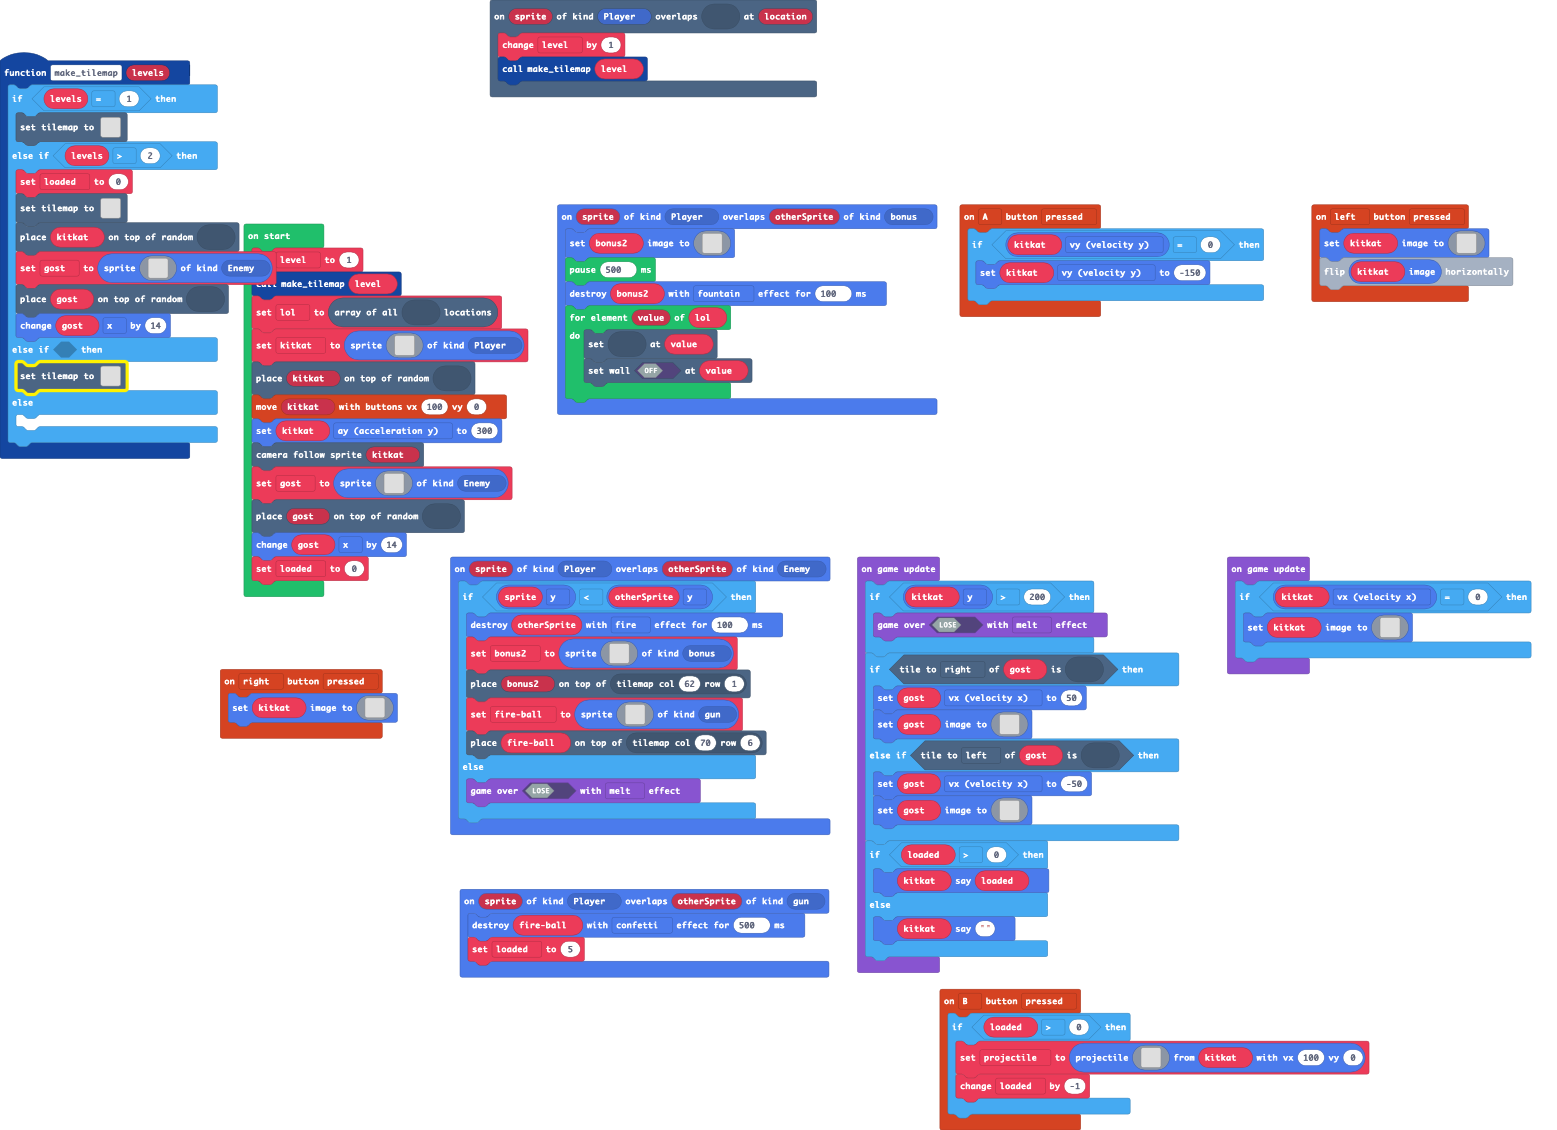
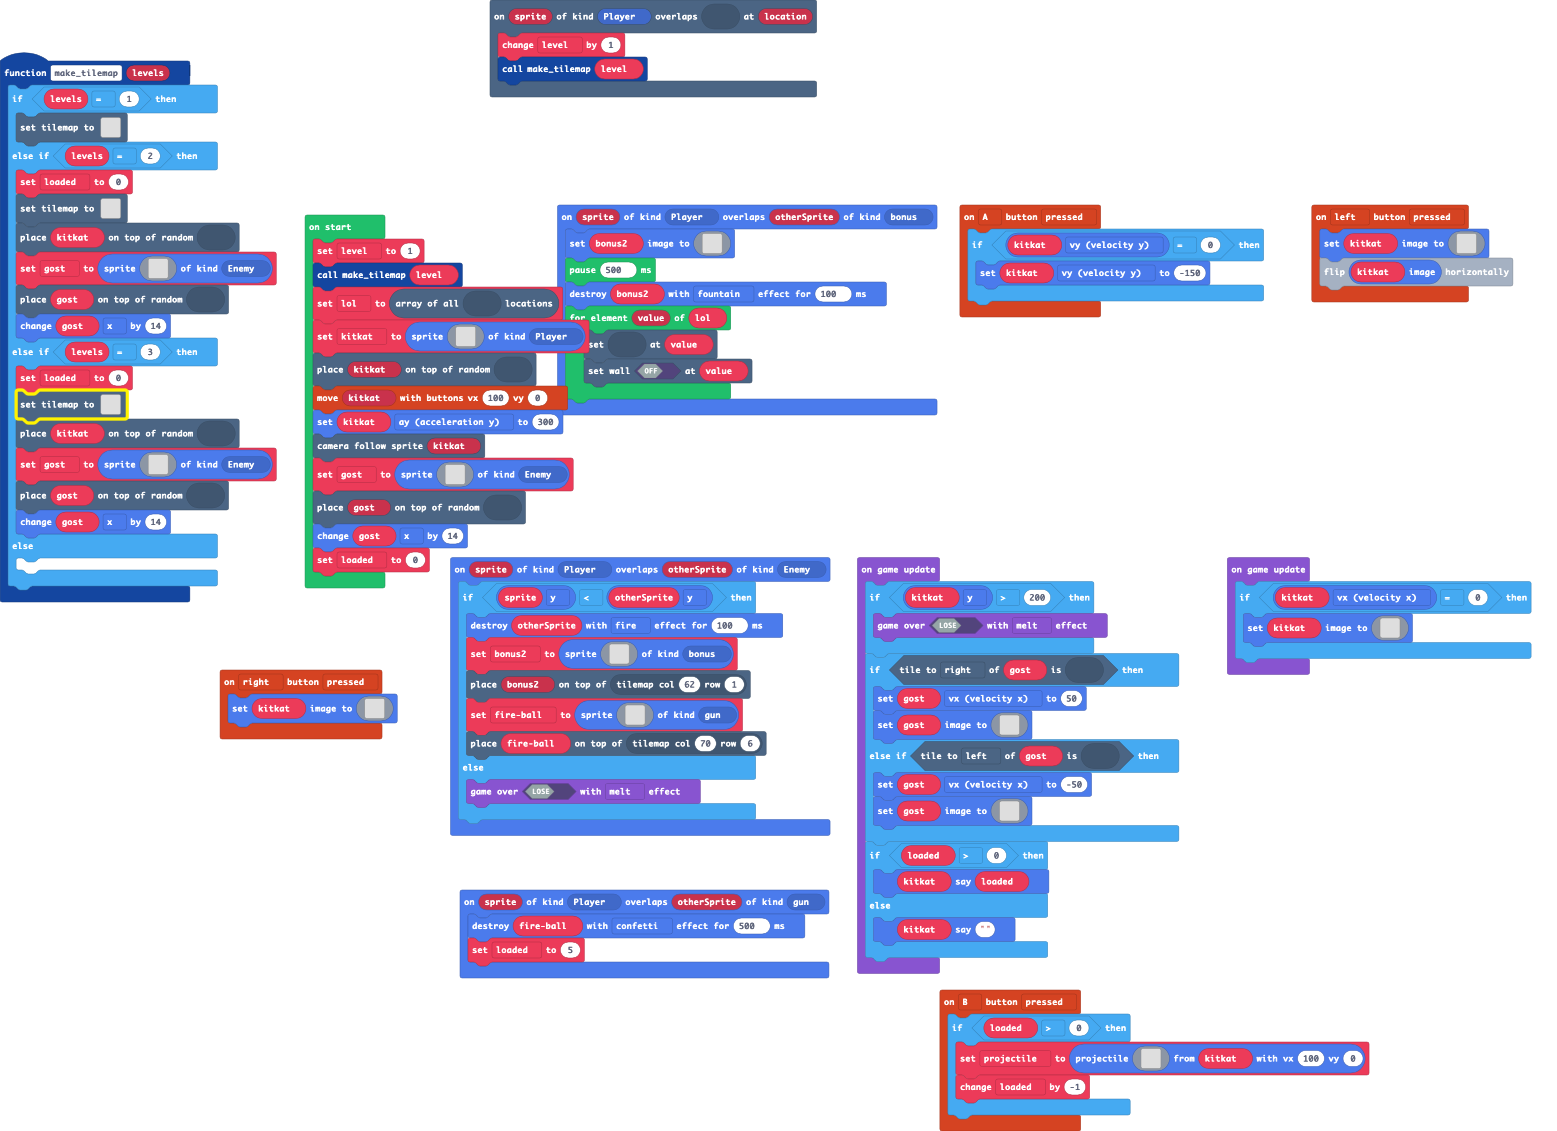
Update main.blocks, main.ts

diff --git a/main.ts b/main.ts
@@ -125,10 +125,10 @@ function make_tilemap (levels: number) {
             222222222222222..22..22..2222..22.2..2..222..2.2.2.2.2222..222...22222.................22...22...2........2....2........
             222222222222222..22..22..2222..22.2..2..222..2.2.2.2.2222..222...22222.................22...22...2.......22....2........
             `, [myTiles.transparency16,sprites.castle.tilePath2,sprites.castle.tilePath5,sprites.dungeon.hazardLava0,myTiles.tile3,sprites.dungeon.hazardWater,myTiles.tile4,myTiles.tile6,myTiles.tile7,myTiles.tile10,myTiles.tile11,myTiles.tile1,myTiles.tile5,sprites.builtin.forestTiles29,sprites.builtin.forestTiles9,sprites.castle.rock1], TileScale.Sixteen))
-    } else if (levels > 2) {
+    } else if (levels == 2) {
         loaded = 0
[1 lines of base64/hex data omitted]
-            .............................................................2.......2..................................................
[1 lines of base64/hex data omitted]
+            ...2.2.......................................................2.......2..................................................
             .............................................................2.......2..................................................
             ...............................22.2..2..2..............22....2222....2..................................................
             ............................2.........................222........2...2..................................................
@@ -174,8 +174,9 @@ function make_tilemap (levels: number) {
             `, SpriteKind.Enemy)
         tiles.placeOnRandomTile(gost, myTiles.tile5)
         gost.x += 14
-    } else if (false) {
[1 lines of base64/hex data omitted]
+    } else if (levels == 3) {
+        loaded = 0
[1 lines of base64/hex data omitted]
             .............................................................2.......2..................................................
             .............................................................2.......2..................................................
             ...............................22.2..2..2..............22....2222....2..................................................
@@ -183,16 +184,45 @@ function make_tilemap (levels: number) {
             2..2222222..222...2........22.............2..2...2...2.22.........2..2..................................................
             2..2222222..222...2.......22.............22..2...2...2.22..........2.2..................................................
             2..2222222..222...2..2...22.......2..2..222..2...2...2.22............2..................................................
-            2..2222222..222.................2.2..2..222..2...2...2.22..222...2222222...22..........22...22...22...2.................
-            2..2222222..................2..22.2..2..222..2...2...2.22..222...22222.2...2.2........2.2...22...22...22.........2222222
-            2..2222222.................22..22.2..2..222..2...2...2.22..222...22222.2...2..22222222..2...22...22...2.2.......22......
-            2..222222222222...2..2...2222..22.2..2..222..2...2...2.22..222...22222.2...2............2...22...22...2..22....22.......
-            2..222222222222...2..2...2222..22.2..2..222..2...2...2.22..222...22222.2...2............2...22...22...2...2....2........
-            2..222222222222...2..2...2222..22.2..2..222..2...2...2.22..222...22222.2...2............2...22...22...2...2....2........
-            2..222222222222...2..2...2222..22.2..2..222..2...2...2.22..222...22222.2...2...........22...22...22...2...2....2........
-            2..222222222222...2..2...2222..22.2..2..222..2...2...2.22..222...22222.2...2...........22...22...22...2...2....2........
-            2..222222222222...2..2...2222..22.2..2..222..2...2...2.22..222...22222.2...2...........22...22...22...2..22....2........
-            `, [myTiles.transparency16,sprites.castle.tilePath2,sprites.castle.tilePath5,sprites.dungeon.hazardLava0,myTiles.tile3,sprites.dungeon.hazardWater,myTiles.tile4,myTiles.tile6,myTiles.tile7,myTiles.tile10,myTiles.tile11,myTiles.tile1,myTiles.tile5,sprites.builtin.forestTiles29,sprites.builtin.forestTiles9,sprites.castle.rock1], TileScale.Sixteen))
+            2..2222222..222.................2.2..2..222..2...2...2.22..2.2...2222222...22..........22....2...2....2.................
+            2..2222222..................2..22.2..2..222..2...2...2.22..2.2...22222.2...2.2........2.2....2...2....22.........2....22
+            2..2222222.................22..22.2..2..222..2...2...2.22..2.2...22222.2...2..22222222..2....2...2....2.2.......22....2.
+            2..222222222222...2..2...2222..22.2..2..222..2...2...2.22..2.2...22222.2...2............2....2...2....2..22....222....2.
+            2..222222222222...2..2...2222..22.2..2..222..2...2...2.22..2.2...22222.2...2............2....2...2....2...2....2.2....2.
+            2..222222222222...2..2...2222..22.2..2..222..2...2...2.22..2.2...22222.2...2............2....2...2....2...2....2.2....2.
+            2..222222222222...2..2...2222..22.2..2..222..2...2...2.22..2.2...22222.2...2...........22....2...2....2...2....2.2....2.
+            2..222222222222...2..2...2222..22.2..2..222..2...2...2.22..2.2...22222.2...2...........22....2...2....2...2....2.2....2.
+            2..222222222222...2..2...2222..22.2..2..222..2...2...2.22..2.2...22222.2...2...........22....2...2....2..22....2.2....2.
+            `, [myTiles.transparency16,sprites.castle.tilePath2,sprites.castle.tilePath5,sprites.dungeon.hazardLava0,sprites.dungeon.hazardWater,myTiles.tile4,myTiles.tile6,myTiles.tile7,myTiles.tile10,myTiles.tile11,myTiles.tile1,myTiles.tile5,sprites.builtin.forestTiles29,sprites.builtin.forestTiles9,sprites.castle.rock1,myTiles.tile2], TileScale.Sixteen))
+        tiles.placeOnRandomTile(kitkat, myTiles.tile2)
+        gost = sprites.create(img`
+            ........................
+            ........................
+            ........................
+            ........................
+            ..........ffff..........
+            ........ff1111ff........
+            .......fb111111bf.......
+            .......fd1111111f.......
+            ......fdd1111111df......
+            ......fddd111111df......
+            ......fdddddd111df......
+            ......fbddddbfd1df......
+            ......fcbbbdcfddbf......
+            .......fcbb11111f.......
+            ........fffff1b1f.......
+            ........fb111cfbf.......
+            ........ffb1b1ff........
+            ......f.fffbfbf.........
+            ......ffffffff..........
+            .......fffff............
+            ........................
+            ........................
+            ........................
+            ........................
+            `, SpriteKind.Enemy)
+        tiles.placeOnRandomTile(gost, myTiles.tile5)
+        gost.x += 14
     } else {
     	
     }
